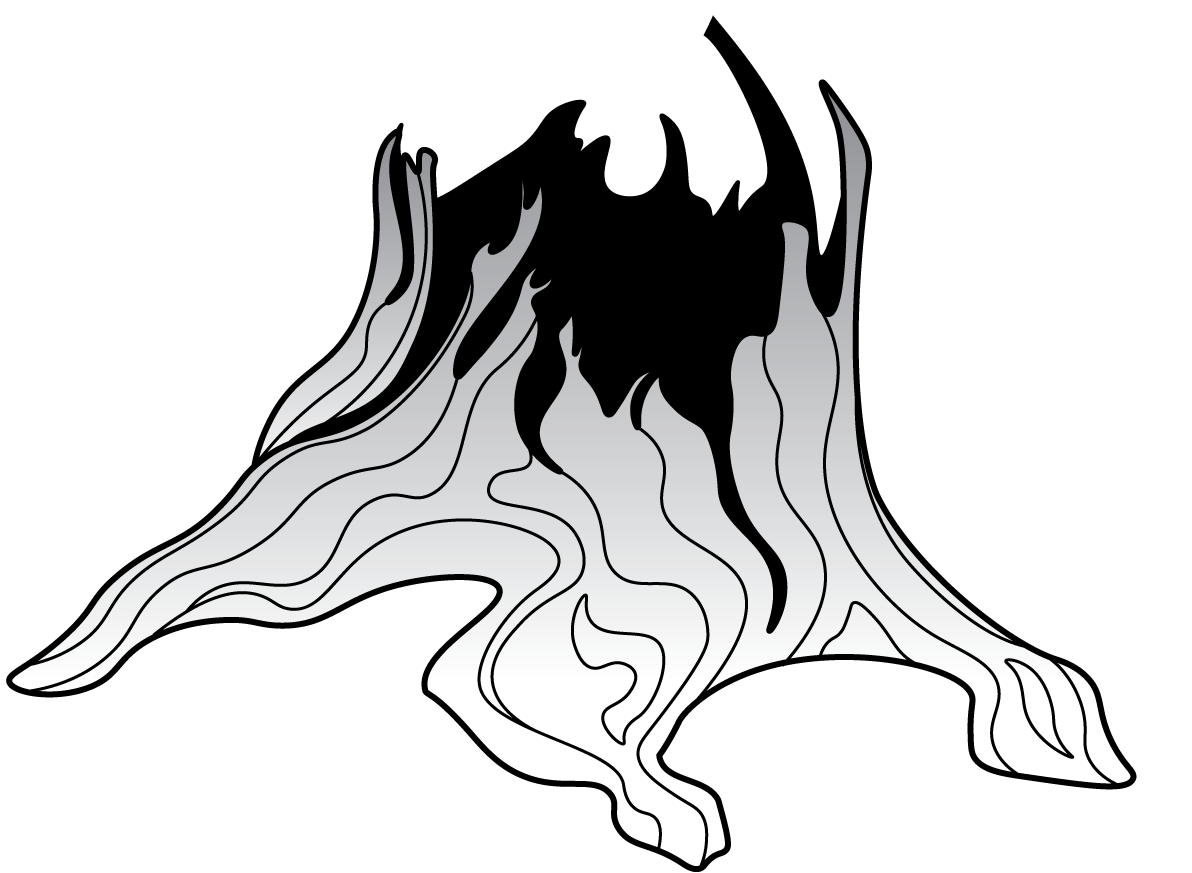
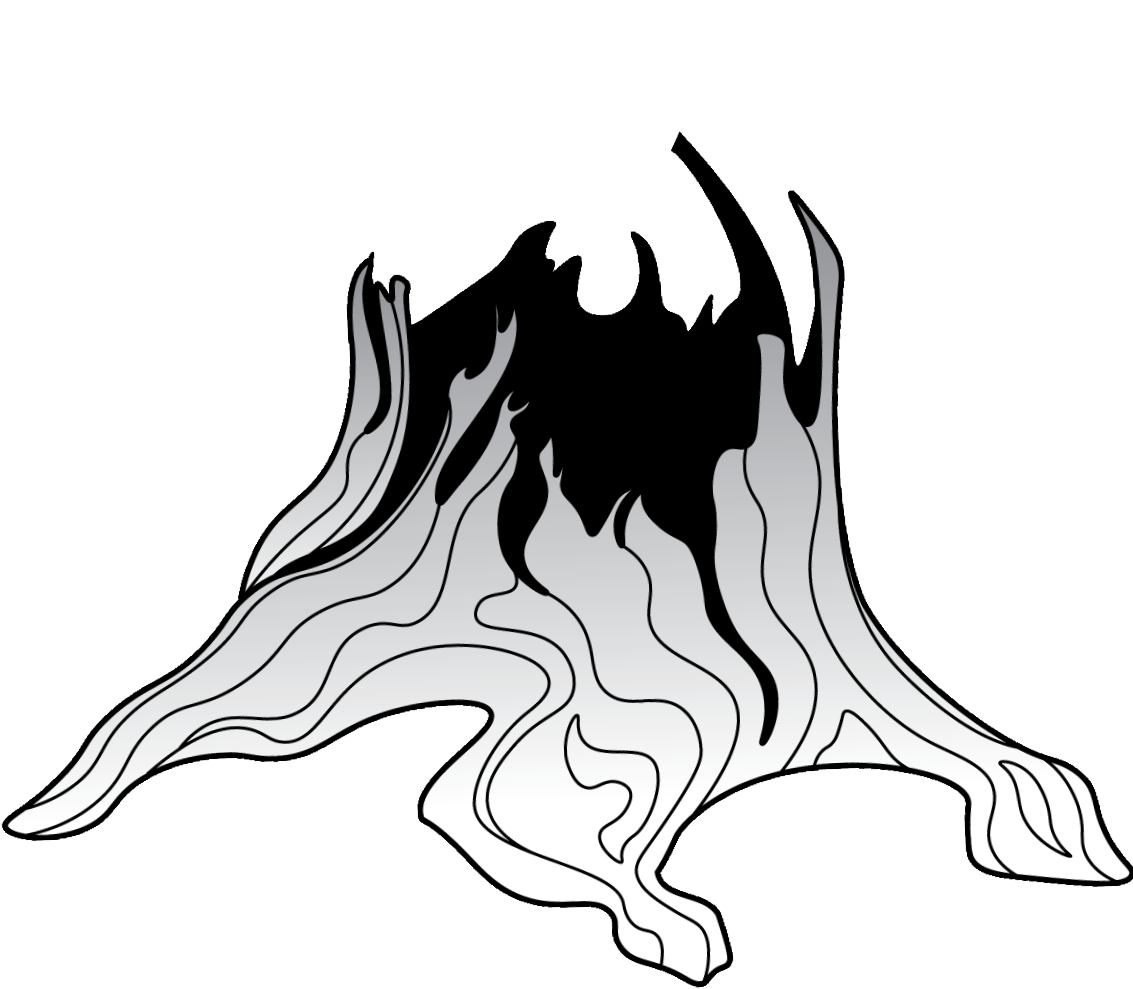
depo changes

Changed region(s): [[0.0, 0.0, 1.0, 1.0]]

diff --git a/character_objects.js b/character_objects.js
@@ -294,7 +294,6 @@ function main_character(x, y) {
 			
 			
 	    }
-	
 	   
 	    //if within bounds add directional changes
 	   if(this.canvasX > 0 && this.canvasXSpeed < 0){
@@ -680,27 +679,26 @@ function main_character(x, y) {
 		if(this.dashing == false){
 			if (target.is_obstacle != undefined){
 				if(this.recently_checked == false){
-				var response = new SAT.Response();
-				SAT.testPolygonPolygon(this.hitbox.col_data.toPolygon(), target.hitbox.col_data.toPolygon(), response);
-				
-				this.mapX -= response.overlapV.x;
-				this.mapY -= response.overlapV.y;
-				 
-				
-				if(response.overlapV.x > 0){
-					this.recently_checked = true;
-					this.can_move_right = false;
-				} else if(response.overlapV.x < 0){
-					this.recently_checked = true;
-					this.can_move_left = false;
-				}
-				if (response.overlapV.y > 0){
-					this.recently_checked = true;
-					this.can_move_down = false;
-				} else if(response.overlapV.y < 0){
-					this.recently_checked = true;
-					this.can_move_up = false;
-				}
+					var response = new SAT.Response();
+					SAT.testPolygonPolygon(this.hitbox.col_data.toPolygon(), target.hitbox.col_data.toPolygon(), response);
+					
+					this.mapX -= response.overlapV.x;
+					this.mapY -= response.overlapV.y;
+					 
+					if(response.overlapV.x > 0){
+						this.recently_checked = true;
+						this.can_move_right = false;
+					} else if(response.overlapV.x < 0){
+						this.recently_checked = true;
+						this.can_move_left = false;
+					}
+					if (response.overlapV.y > 0){
+						this.recently_checked = true;
+						this.can_move_down = false;
+					} else if(response.overlapV.y < 0){
+						this.recently_checked = true;
+						this.can_move_up = false;
+					}
 				}
 				
 				this.canvasX = toCanvasX(this.mapX);

diff --git a/depo_obj.js b/depo_obj.js
@@ -8,9 +8,17 @@ function depo(x, y){
 	this.mapY = y;
 	this.canvasX = toCanvasX(this.mapX);
 	this.canvasY = toCanvasY(this.mapY);
-    this.sprite = assets["enviro_tree"];
-	this.sprite.width = 128;
-	this.sprite.height = 128;
+	
+	this.empty = assets["enviro_tree_1"]; 
+    
+	this.sprite = new Array; this.sprite.push(assets["enviro_tree_2"]); this.sprite.push(assets["enviro_tree_3"]);
+	
+	this.image_index = 0;
+	this.image_speed_max = 7;  
+	this.image_speed_counter = 0;
+	
+	this.width = 128;
+	this.height = 128;
 
 	this.is_obstacle = true;
 	
@@ -22,8 +30,8 @@ function depo(x, y){
 			if(keysPressed[ACTION_KEY_CODE] == true){
 				console.log("depo log")
 				if(this.depo_ready == true){
-					MC.fp -= 1;
-					MC.nextFp += 1;
+					MC.nextFp -= 1;
+					storedFP += 1;
 					console.log("deposited points");
 					this.depo_ready = false;
 				}
@@ -40,7 +48,13 @@ function depo(x, y){
 	}
 	
 	this.draw = function(){
-		context.drawImage(this.sprite, this.canvasX, this.canvasY, this.sprite.width, this.sprite.height);
+		if(storedFP > 0){
+			draw_animated_sprite(this.sprite, this, this.canvasX, this.canvasY, this.width, this.height);
+		}
+		else{
+			context.drawImage(this.empty, this.canvasX, this.canvasY, this.width, this.height);
+		}
+		
 		//context.fillStyle = '#CF0D42';
 		//context.fillRect(toCanvasX(this.hitbox.col_data.pos.x), toCanvasY(this.hitbox.col_data.pos.y), this.sprite.width, this.sprite.height);
 		

diff --git a/sprites.js b/sprites.js
@@ -77,8 +77,9 @@ function load_sprites(){
 	var gui_melee = new Image();
 	gui_melee.src = 'images/gui/melee_overlay.png';
 
-	var enviro_tree = new Image();
-	enviro_tree.src = 'images/environment/treestump_nest1.png';
+	var enviro_tree_1 = new Image(); enviro_tree_1.src = 'images/environment/treestump_nest1.png';
+	var enviro_tree_2 = new Image(); enviro_tree_2.src = 'images/environment/treestump_nest2.png';
+	var enviro_tree_3 = new Image(); enviro_tree_3.src = 'images/environment/treestump_nest3.png';
 
 	var gui_shade = new Image();
 	gui_shade.src = 'images/gui/overlay_cover.png';
@@ -156,7 +157,10 @@ function load_sprites(){
 		gui_melee: gui_melee,
 		gui_shade: gui_shade,
 		
-		enviro_tree: enviro_tree,
+		enviro_tree_1: enviro_tree_1,
+		enviro_tree_2: enviro_tree_2,
+		enviro_tree_3: enviro_tree_3,
+		
 		enviro_rock: enviro_rock,
 		tile_ash: tile_ash,
 		black_square: black_square,

diff --git a/tileSystem.js b/tileSystem.js
@@ -179,13 +179,13 @@ function create_board(world_width, world_height, tile_size, non_ash){
 	
 	this.draw = function onEnterFrame(){
   
-      this.left = MC.canvasX - this.VIEW_WIDTH / 2;
-      this.top = MC.canvasY - this.VIEW_HEIGHT / 2;
+        this.left = MC.canvasX - this.VIEW_WIDTH / 2;
+        this.top = MC.canvasY - this.VIEW_HEIGHT / 2;
 		this.right = MC.canvasX + this.VIEW_WIDTH / 2;
 		this.bottom = MC.canvasY + this.VIEW_HEIGHT / 2;
 		
-		if(this.left <= 0){ this.left = 0 }
-		if(this.top <= 0){ this.top = 0 }
+		if(this.left <= 0){ this.left = 0; console.log("player is only moving via canvas") }
+		if(this.top <= 0){ this.top = 0; console.log("player is only moving via canvas") }
 		
 		if(this.bottom >= this.WORLD_HEIGHT){ this.top = this.WORLD_HEIGHT - this.VIEW_HEIGHT}
 		if(this.right >= this.WORLD_WIDTH){ this.left = this.WORLD_WIDTH - this.VIEW_WIDTH}

diff --git a/load_game.js b/load_game.js
@@ -25,7 +25,7 @@ function load_game(){
 	//If you want to add more obstacle types, ask me I'll do it.
 	levels = [];
 	//Tutorial Levels
-	levels.push([960,960,undefined,400,300]);
+	//levels.push([960,960,undefined,400,300]);
 	levels.push([960, 960, [[6, 4, 3]], 300, 300]);
 	levels.push([960,960,[[10, 9, 1],[2, 3, 1, 'x', 4],[8, 4, 1, 'y',2],[4,10,1,'x',2]], 300, 300]);
 
@@ -44,13 +44,10 @@ function load_game(){
     //[[x,y,"type"], [x,y,"type"]]
     //An example: [[20, 20, "a"]] will create an enemy A at 20,20
     //Only use enemy A for now, we can add more later
-    //enemies = [];
+    
+	//enemies = [];
     //enemies.push([[600, 600, 'a']])
-    	
-	
-
-
->>>>>>> origin/master
+    
 	current_level = 0;
 	
 	/* if(current_level == 1){

diff --git a/main.js b/main.js
@@ -23,6 +23,8 @@ renderer.push(main_stage);
 
 enemies_killed = 0;
 
+storedFP = 0;
+
 
 // Start the game loop. 
 make_loop(renderer, 15);
